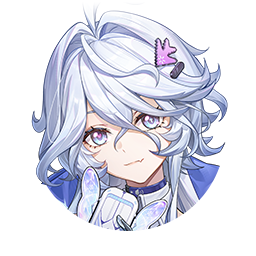
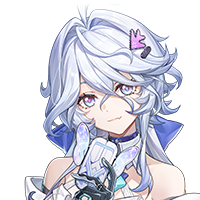
feat: 将侧边栏角色头像裁剪为圆形

diff --git a/app/src/renderer/src/index.css b/app/src/renderer/src/index.css
@@ -395,6 +395,9 @@ input[type='checkbox'] {
   align-items: center;
   justify-content: center;
 }
+.category-row img {
+  border-radius: 50%;
+}
 .category-name {
   flex: 1;
   overflow: hidden;
